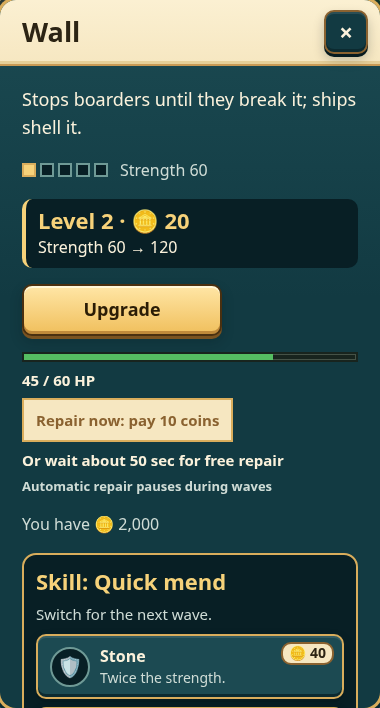
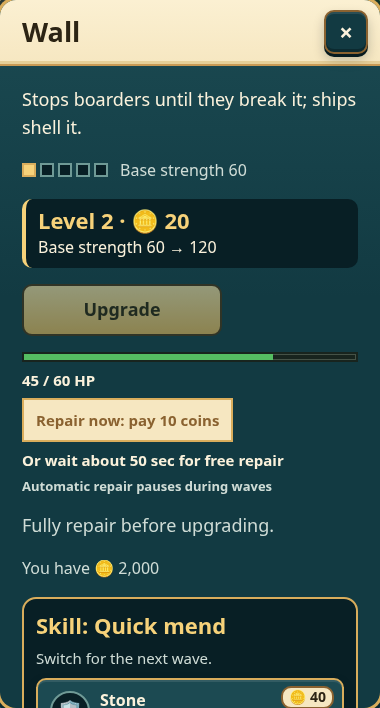
docs: refresh T58 evidence for recovery upgrade gate

diff --git a/docs/evidence/T58-captain-repair/README.md b/docs/evidence/T58-captain-repair/README.md
@@ -8,9 +8,9 @@ The capture script is `frontend/scripts/capture-captain-repair.js`. Run it from 
 node scripts/capture-captain-repair.js
 ```
 
-The screenshots are generated from source commit `db77e714`. Capture environment: Linux, Node.js `v24.22.1`, Chromium `156.0.8078.79` (`/usr/bin/chromium`).
+The screenshots are generated from source commit `d61e2af9`, which includes T59's recovery-aware structure upgrade gate (`4c14e7a6`). Capture environment: Linux, Node.js `v24.22.1`, Chromium `156.0.8078.79` (`/usr/bin/chromium`).
 
-The local Vite/browser fixture uses offline API stubs, then supplies fixture models to the production island UI components. The URL is `?islands=fake&fakeplayer=t58_fixture&fakename=Ianno`; no recovery activation flag is set. First-run tutorials, narrator captions, and transient help hints are disabled in the isolated browser context for clean screenshots. The fixture uses a saved-points Captain record containing all seven retired IDs (`points: 0`, `spent: 18`), Engineer role, researched Wall Tech tier 2 Mason Drill and tier 3 Bastion, and a damaged level-one wall. The UI therefore shows ordinary spent-point accounting while the version-1 tree omits the retired choices. Tech fixture text demonstrates Mason Drill's 1.5× modifier and Bastion's +50% max HP / 3× between-wave repair only when equipped to an individual wall. The wall-card fixtures include Mason Drill in their saved rate: Quick Mend has 60 max HP, 750,000/1,000,000 HP units, 5,000 rate units/second and a 50-second ETA; Bastion has 90 max HP, 750,000 HP units, 7,500 rate units/second and a rounded 34-second ETA. Both show the unchanged level-one price of 10 coins. Policy/model tests cover Quick Mend ×2 versus Bastion ×3 exclusivity, Mason stacking, the Engineer 10% construction and upgrade discount, and no island-wide Bastion effect from research alone.
+The local Vite/browser fixture uses offline API stubs, then supplies fixture models to the production island UI components. The URL is `?islands=fake&fakeplayer=t58_fixture&fakename=Ianno`; no recovery activation flag is set. First-run tutorials, narrator captions, and transient help hints are disabled in the isolated browser context for clean screenshots. The fixture uses a saved-points Captain record containing all seven retired IDs (`points: 0`, `spent: 18`), Engineer role, researched Wall Tech tier 2 Mason Drill and tier 3 Bastion, and a damaged level-one wall. The UI therefore shows ordinary spent-point accounting while the version-1 tree omits the retired choices. Tech fixture text demonstrates Mason Drill's 1.5× modifier and Bastion's +50% max HP / 3× between-wave repair only when equipped to an individual wall. The wall-card fixtures include Mason Drill in their saved rate: Quick Mend has 60 max HP, 750,000/1,000,000 HP units, 5,000 rate units/second and a 50-second ETA; Bastion has 90 max HP, 750,000 HP units, 7,500 rate units/second and a rounded 34-second ETA. Both show the unchanged level-one price of 10 coins. Under the merged recovery-aware card guard, Upgrade is disabled while either fixture is below full HP, with the desktop card stating “Fully repair before upgrading.” The raw structure stat is labelled “Base strength” to distinguish it from recovery-modified actual HP. Policy/model tests cover Quick Mend ×2 versus Bastion ×3 exclusivity, Mason stacking, the Engineer 10% construction and upgrade discount, and no island-wide Bastion effect from research alone.
 
 The captured files are:
 
@@ -40,6 +40,14 @@ cd backend && uv run pytest -q server/tests/test_structure_recovery_rate.py
 ```
 
 Results: 2 frontend files / 29 tests, and 9 backend rate tests. The backend test used a task-local uv cache under `/tmp` because the default cache directory was read-only in this environment.
+
+The recovery-aware level-up gate was merged from T59 commit `4c14e7a6`. Partial-HP and reserved-phase cards disable structure level upgrades and explain the blocker; full-health between-wave upgrades and unrelated tower skill picks remain available. The changed card model and actual DOM were checked in the merged T58 tree with:
+
+```sh
+cd frontend && npm exec vitest -- run tests/island/card-model.test.js tests/island/structure-recovery-upgrade-dom.test.js
+```
+
+Result: 2 files, 30 tests passed. The DOM check verifies the disabled Upgrade control and no upgrade callback; it does not call the live API. After merging this gate, `npm run build` also passed: Vite transformed 504 modules and the spoiler guard passed.
 
 The tutorial host uses the read-only `island.recoveryVersion` value derived from canonical saved island state; the admission flag does not select the help copy. Version 0 retains the historical help, including manual E repair and Shipwright choices. Version 1 documents automatic between-wave recovery, the shared three successful Repair now uses from bell acceptance through finish/expiry, current-level fixed price, no special refund/respec, the retained E help-up and F firing controls, and the Engineer discount.
 

diff --git a/docs/TEST-MAP.md b/docs/TEST-MAP.md
@@ -283,6 +283,6 @@ and [results, screenshots and manual checkpoints](evidence/T28/README.md).
 
 | Part | Checks and command | Covers | Misses |
 |---|---|---|---|
-| Recovery-v1 Captain choices, persisted-version tutorial help, and shared wall Tech copy | [Focused tests](../frontend/tests/campaign/captain-repair-policy.test.js), [Captain tree](../frontend/tests/island/captain-recovery-tree.test.js), [card model](../frontend/tests/island/card-model.test.js), [tutorial pages](../frontend/tests/tutorial-pages.test.js) and [tutorial host](../frontend/tests/tutorial/host.test.js); `cd frontend && npm exec vitest -- run tests/tutorial-pages.test.js tests/tutorial/host.test.js tests/campaign/captain-repair-policy.test.js tests/island/captain-recovery-tree.test.js tests/island/card-model.test.js`; recovery views: `cd frontend && npm exec vitest -- run tests/island/structure-recovery-policy.test.js tests/island/structure-recovery-model.test.js`; backend rate: `cd backend && uv run pytest -q server/tests/test_structure_recovery_rate.py`; build: `cd frontend && npm run build`; [fixture capture](../frontend/scripts/capture-captain-repair.js) | Legacy-vs-v1 page selection, stable first four pages, E help-up/F fire controls, retired saved IDs and spent-point display, Engineer discount, Quick Mend/Bastion exclusivity, Mason stacking, paused recovery factor, Tech copy and production island UI presentation at 1280×800 and 375×812 | Fixture data is supplied directly to UI models, not fetched from a saved island; no live API, server transaction, wave runtime, payment, multiplayer, physical phone or release activation. Combined dependency/release checks are pending. |
+| Recovery-v1 Captain choices, persisted-version tutorial help, and shared wall Tech copy | [Focused tests](../frontend/tests/campaign/captain-repair-policy.test.js), [Captain tree](../frontend/tests/island/captain-recovery-tree.test.js), [card model](../frontend/tests/island/card-model.test.js), [structure upgrade DOM gate](../frontend/tests/island/structure-recovery-upgrade-dom.test.js), [tutorial pages](../frontend/tests/tutorial-pages.test.js) and [tutorial host](../frontend/tests/tutorial/host.test.js); `cd frontend && npm exec vitest -- run tests/tutorial-pages.test.js tests/tutorial/host.test.js tests/campaign/captain-repair-policy.test.js tests/island/captain-recovery-tree.test.js tests/island/card-model.test.js`; recovery views: `cd frontend && npm exec vitest -- run tests/island/structure-recovery-policy.test.js tests/island/structure-recovery-model.test.js`; backend rate: `cd backend && uv run pytest -q server/tests/test_structure_recovery_rate.py`; build: `cd frontend && npm run build`; [fixture capture](../frontend/scripts/capture-captain-repair.js) | Legacy-vs-v1 page selection, stable first four pages, E help-up/F fire controls, retired saved IDs and spent-point display, Engineer discount, Quick Mend/Bastion exclusivity, Mason stacking, paused recovery factor, no level upgrades when v1 HP is damaged/reserved, base-strength label, Tech copy and production island UI presentation at 1280×800 and 375×812 | Fixture data is supplied directly to UI models, not fetched from a saved island; no live API, server transaction, wave runtime, payment, multiplayer, physical phone or release activation. Combined dependency/release checks are pending. |
 
 See the [T58 evidence README](evidence/T58-captain-repair/README.md) for fixture values, screenshots and reproducible commands.

diff --git a/specs/T58-captain-repair.md b/specs/T58-captain-repair.md
@@ -24,7 +24,7 @@ Captain repair skills and independent wall regeneration conflict with the approv
 
 The frontend has an isolated version-aware policy module at `frontend/src/campaign/captain-repair-policy.js`. `recoveryRateFactor()` accepts the island owner's Carpenter count, nearby Workshop count, supported structure kind, one wall's equipped `wallSpec`, island `wallResearch` and a between-wave boolean. It returns 0 during a reservation, applies Quick Mend or equipped Bastion only to walls, applies Mason Drill only to walls, and leaves other valid wall choices neutral. `isRetiredCaptainSkill()` and `captainBranchesForPolicy()` retain legacy behavior by default; under recovery v1 they hide the seven repair-only Captain choices without deleting stored ids or changing spent points. Captain stats accept an explicit `{recoveryVersion}` option so existing callers remain legacy by default. `skillsModel()` and `techModel()` also accept a `recoveryVersion`, defaulting to legacy 0.
 
-The canonical GET `/api/island/structures` getter provides the saved recovery version, and the island integration passes it into Captain and Tech models. Tutorial help now selects a recovery-v1 copy from that same persisted version while preserving the original version-0 pages. Focused model, integration and help tests plus production-UI fixture captures are documented in [T58 evidence](../docs/evidence/T58-captain-repair/README.md). The captures use controlled fixture data and do not demonstrate live API state, multiplayer, a deployed feature flag, or production activation. T55/T57/T59/T60 combined review, full acceptance checks and release checks remain pending.
+The canonical GET `/api/island/structures` getter provides the saved recovery version, and the island integration passes it into Captain and Tech models. Tutorial help now selects a recovery-v1 copy from that same persisted version while preserving the original version-0 pages. In recovery v1, damaged/reserved structure cards disable level upgrades, and the raw catalogue wall value is labelled base strength so it is not confused with recovery-modified maximum HP. Focused model, integration and help tests plus production-UI fixture captures are documented in [T58 evidence](../docs/evidence/T58-captain-repair/README.md). The captures use controlled fixture data and do not demonstrate live API state, multiplayer, a deployed feature flag, or production activation. T55/T57/T59/T60 combined review, full acceptance checks and release checks remain pending.
 
 ## Out of scope
 

diff --git a/docs/STATUS.md b/docs/STATUS.md
@@ -982,3 +982,7 @@ Ianno / 2026-11-16 — T58: Captain skills and wall research started on `refacto
 - Verification: preparation-policy, multiplayer wiring, replay controller and transport tests passed 25/25 across the affected files; the focused persisted-policy test passed 5/5 after adding the getter assertions. These frontend checks do not establish SQL acceptance or two-client behavior.
 
 Ianno / 2026-11-17 — T58 Captain/Tech integration verification. Model: GPT-6 Luna (`gpt-6-luna/high`). Versioned tutorial pages use the canonical persisted `island.recoveryVersion` getter; version 0 retains the legacy E-repair and Shipwright help, while version 1 explains shared between-wave recovery and preserves E help-up/F firing. Focused tutorial, policy, Captain-tree and card tests passed 66/66 across five files; recovery policy/model parity passed 29/29 frontend tests and 9/9 backend rate tests. The production build transformed 504 modules and the spoiler guard passed. Fixture captures from source `db77e714` cover the legacy Captain tree, recovery-v1 Captain desktop/phone, Mason Drill desktop, Bastion phone, and Quick Mend/Bastion wall cards at 1280×800 and 375×812. The captures pass `recoveryVersion: 1` directly into fixture models and are not proof of the persisted GET, live API/gameplay, SQL, payment, multiplayer, or activation. Full combined release verification remains with the integrated review; no flag activation, migration or deployment occurred.
+
+Ianno / 2026-11-17 — T58 capture refresh after T59 recovery-aware upgrade gate. Merged T59 card-gating commit `4c14e7a6` as `d61e2af9`; the refreshed seven fixture captures now show Upgrade disabled for partial recovery-v1 wall HP, the “Fully repair before upgrading” reason, and “Base strength” separately from modified actual HP. The focused card-model and DOM gate tests passed 30/30 across two files. Captures remain offline model fixtures and do not verify a live API call, SQL, repair transaction, or activation; other five valid Captain/Tech images were regenerated from the same source tree. No deployment or migration occurred.
+
+Ianno / 2026-11-17 — T58 post-merge build check. On `d61e2af9`, the focused card-model/upgrade-DOM suite passed 30/30; `npm run build` passed with 504 Vite modules transformed and the spoiler guard clean. The refreshed screenshots and source commands are recorded in `docs/evidence/T58-captain-repair/README.md`; their fixture-only limits are unchanged.

diff --git a/docs/WALKTHROUGH.md b/docs/WALKTHROUGH.md
@@ -1656,6 +1656,9 @@ Quick Mend ×2 or Bastion ×3 plus 50% max HP, with Mason Drill ×1.5 stacking; 
 to every wall. Versioned tutorial pages preserve legacy instructions for version 0 and explain the shared between-wave
 recovery rules for version 1.
 
+Recovery-v1 structure cards keep level upgrades disabled during a reserved wave or while that structure is damaged;
+the card says to fully repair it first and labels catalogue strength separately from modified HP.
+
 Focused checks: `cd frontend && npm exec vitest -- run tests/tutorial-pages.test.js tests/tutorial/host.test.js tests/campaign/captain-repair-policy.test.js tests/island/captain-recovery-tree.test.js tests/island/card-model.test.js` (66 tests) and `cd frontend && npm run build`.
 The [evidence README](evidence/T58-captain-repair/README.md) records screenshot fixtures and the exact scope. These
 checks do not prove persisted production state, live recovery, payments, multiplayer or release activation; combined
